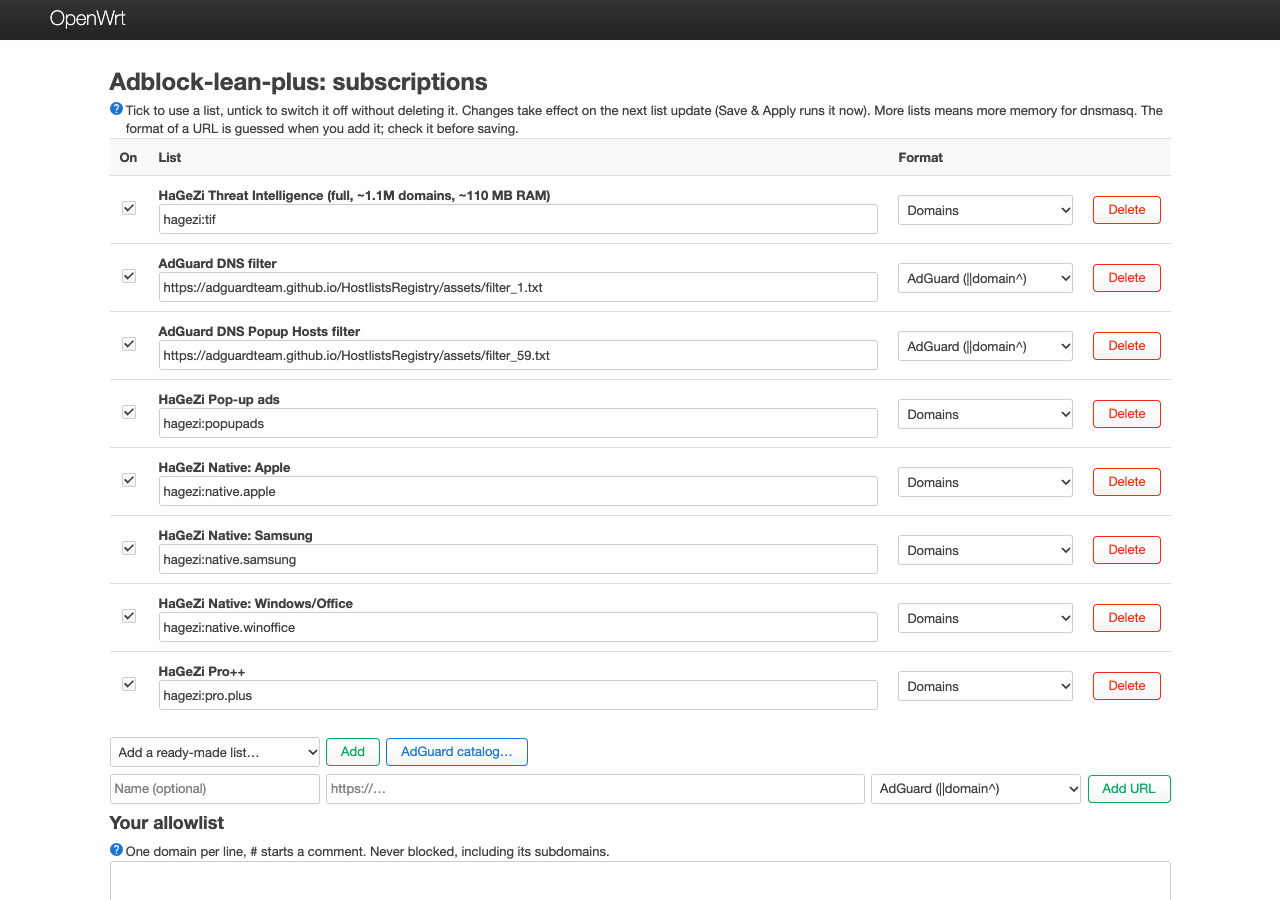
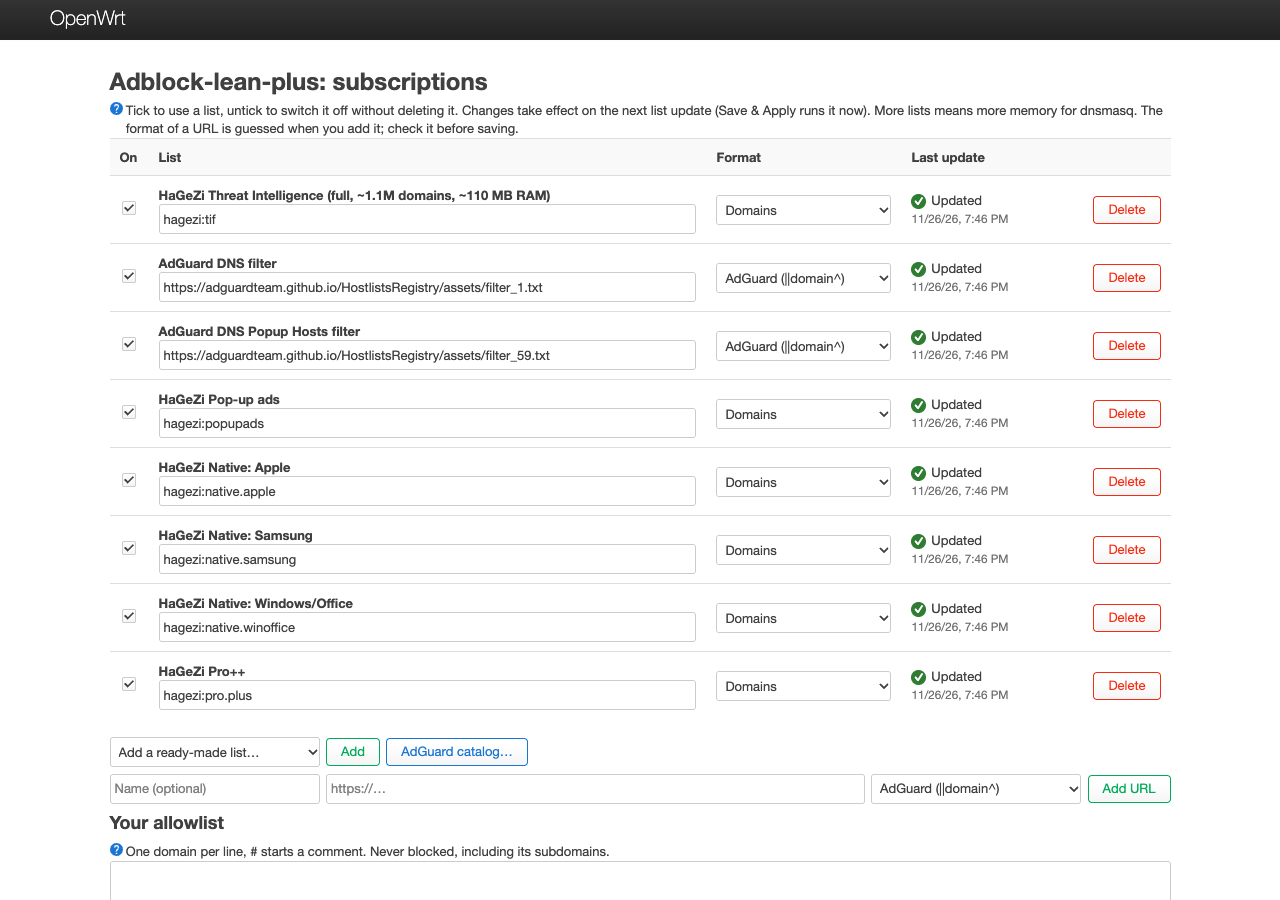
Show which block list failed to download
A list that can not be downloaded is skipped, and nothing but the log said so. The engine now records the
result of every list in /etc/adblock-lean/list-status; the Lists page has a "Last update" column, the
Overview warns about failed lists and updates that installed nothing.

Also fix an upstream bug: failed job IDs were glued together ('1' and '2' named job 12).

diff --git a/luci-app/luci-app-adblock-lean/htdocs/luci-static/resources/view/adblock-lean/overview.js b/luci-app/luci-app-adblock-lean/htdocs/luci-static/resources/view/adblock-lean/overview.js
@@ -7,6 +7,7 @@
 'require poll';
 'require dom';
 'require view.adblock-lean.names as listnames';
+'require view.adblock-lean.liststatus as liststatus';
 
 var callStatus = rpc.declare({ object: 'luci.adblock-lean', method: 'status', expect: { '': {} } });
 var callAction = rpc.declare({ object: 'luci.adblock-lean', method: 'action', params: [ 'name' ], expect: { '': {} } });
@@ -216,27 +217,54 @@ return view.extend({
 			});
 			self.ownNames = own;
 			self.allowSources = allow;
-			var unnamed = ((self.status || {}).lists || []).some(function(l) {
+			var st = self.status || {};
+			var unnamed = (st.lists || []).concat(st.list_status || []).some(function(l) {
 				return /^https?:/.test(l.name) && !own[l.name] && !listnames.name(l.name);
 			});
 			if (unnamed)
 				return callCatalog().then(function(c) { listnames.remember(c); });
 		}).then(function() {
 			var box = document.getElementById('abl-lists');
-			if (box && self.status)
+			if (box && self.status) {
 				dom.content(box, self.renderLists(self.status));
+				dom.content(document.getElementById('abl-alerts'), self.renderAlerts(self.status));
+			}
 		}).catch(function() {
 			// without the names the table still shows the addresses
 		});
 	},
 
+	// the name shown for a list, or null
+	listName: function(source) {
+		if (source.indexOf('/') === 0)
+			return /\/local-allowlist/.test(source) ? _('Your allowlist') : /\/local-blocklist/.test(source) ? _('Your blocklist') : _('Local list');
+		return (this.ownNames && this.ownNames[source]) || listnames.name(source);
+	},
+
+	// problems of the newest update: nothing when all is well
+	renderAlerts: function(st) {
+		var self = this, texts = [];
+		var failed = (st.list_status || []).filter(function(s) { return !s.ok; });
+		if (st.run_at && !st.run_ok)
+			texts.push(_('The list update of %s did not install new lists.').format(new Date(st.run_at * 1000).toLocaleString()) +
+				(st.state === 'active' ? ' ' + _('The previous block set is still in use.') : ''));
+		if (failed.length) {
+			var named = failed.slice(0, 3).map(function(s) {
+				return '%s (%s)'.format(self.listName(s.name) || s.name, liststatus.reason(s.reason));
+			});
+			if (failed.length > named.length)
+				named.push(_('and %d more').format(failed.length - named.length));
+			texts.push(_('Lists that failed to download: %d. %s. Check their addresses on the Lists page.').format(failed.length, named.join(', ')));
+		}
+		// text nodes: list names come from the user and from downloads
+		return E([], texts.map(function(t) {
+			return E('div', { 'class': 'alert-message warning', 'style': 'word-break:break-word' }, [ t ]);
+		}));
+	},
+
 	// every list the same way: its name in bold and its address (or file) below
 	listCell: function(source) {
-		var local = source.indexOf('/') === 0, name;
-		if (local)
-			name = /\/local-allowlist/.test(source) ? _('Your allowlist') : /\/local-blocklist/.test(source) ? _('Your blocklist') : _('Local list');
-		else
-			name = (this.ownNames && this.ownNames[source]) || listnames.name(source);
+		var name = this.listName(source);
 		// text nodes: names and addresses come from files and downloads
 		return E('td', { 'class': 'td', 'style': 'word-break:break-all' }, [
 			name ? E('div', {}, E('strong', {}, document.createTextNode(name))) : '',
@@ -245,7 +273,12 @@ return view.extend({
 	},
 
 	renderLists: function(st) {
-		if (!st.lists || !st.lists.length)
+		var results = liststatus.map(st.list_status), shown = Object.create(null);
+		var lists = st.lists || [];
+		lists.forEach(function(l) { shown[liststatus.key(l.name)] = true; });
+		// failed lists have no figures in the log: they get a row of their own
+		var missing = (st.list_status || []).filter(function(s) { return !s.ok && !shown[liststatus.key(s.name)]; });
+		if (!lists.length && !missing.length)
 			return E('p', { 'class': 'cbi-value-description' }, _('No per-list figures yet. They appear after the next list update.'));
 
 		var rows = [ E('tr', { 'class': 'tr table-titles' }, [
@@ -254,17 +287,29 @@ return view.extend({
 			E('th', { 'class': 'th right' }, _('Download size'))
 		]) ];
 		var self = this;
-		st.lists.forEach(function(l) {
+		lists.forEach(function(l) {
+			var result = results[liststatus.key(l.name)];
+			// the figures are those of the blockset in use; a newer attempt may have failed
+			var entries = !result ? fmtInt(l.lines)
+				: result.ok ? liststatus.badge('ok', fmtInt(l.lines), null, true)
+				: liststatus.badge('fail', fmtInt(l.lines), _('Last attempt failed: %s').format(liststatus.reason(result.reason)), true);
 			rows.push(E('tr', { 'class': 'tr' }, [
 				self.listCell(l.name),
-				E('td', { 'class': 'td right' }, fmtInt(l.lines)),
+				E('td', { 'class': 'td right' }, [ entries ]),
 				E('td', { 'class': 'td right' }, l.size.replace(/\s+/g, ' '))
+			]));
+		});
+		missing.forEach(function(s) {
+			rows.push(E('tr', { 'class': 'tr' }, [
+				self.listCell(s.name),
+				E('td', { 'class': 'td right' }, [ liststatus.badge('fail', _('Not loaded'), liststatus.reason(s.reason)) ]),
+				E('td', { 'class': 'td right' }, '-')
 			]));
 		});
 		// how much the block lists overlap. The total below counts the allow rules too, so:
 		// lists together - removed + allow rules = total. Not shown in allowlist-only mode (block lists are
 		// then dropped almost entirely) nor before it is known which lists are allowlists.
-		var together = st.lists.reduce(function(sum, l) {
+		var together = lists.reduce(function(sum, l) {
 			var allow = /\/local-allowlist/.test(l.name) || (self.allowSources && self.allowSources[listKey(l.name)]);
 			return allow ? sum : sum + (+l.lines || 0);
 		}, 0);
@@ -291,8 +336,8 @@ return view.extend({
 		]));
 		return E([], [
 			E('table', { 'class': 'table' }, rows),
-			E('p', { 'class': 'cbi-value-description' },
-				_('From the list update at %s.').format(new Date(st.lists_at * 1000).toLocaleString()))
+			st.lists_at ? E('p', { 'class': 'cbi-value-description' },
+				_('From the list update at %s.').format(new Date(st.lists_at * 1000).toLocaleString())) : ''
 		]);
 	},
 
@@ -492,6 +537,7 @@ return view.extend({
 				dom.content(document.getElementById('abl-status'), self.renderStatus(st));
 			dom.content(document.getElementById('abl-resources'), self.renderResources(st));
 			dom.content(document.getElementById('abl-lists'), self.renderLists(st));
+			dom.content(document.getElementById('abl-alerts'), self.renderAlerts(st));
 			dom.content(document.getElementById('abl-buttons'), self.renderButtons(st));
 		});
 	},
@@ -504,6 +550,7 @@ return view.extend({
 
 		var view = E([], [
 			E('h2', {}, _('Adblock-lean-plus')),
+			E('div', { 'id': 'abl-alerts' }, [ this.renderAlerts(st) ]),
 			E('div', { 'class': 'cbi-section' }, [
 				E('h3', {}, _('Status')),
 				E('div', { 'id': 'abl-status' }, this.renderStatus(st)),

diff --git a/luci-app/luci-app-adblock-lean/htdocs/luci-static/resources/view/adblock-lean/lists.js b/luci-app/luci-app-adblock-lean/htdocs/luci-static/resources/view/adblock-lean/lists.js
@@ -7,6 +7,7 @@
 'require ui';
 'require dom';
 'require view.adblock-lean.names as listnames';
+'require view.adblock-lean.liststatus as liststatus';
 
 var callGetSubs = rpc.declare({ object: 'luci.adblock-lean', method: 'get_subscriptions', expect: { '': {} } });
 var callSetSubs = rpc.declare({ object: 'luci.adblock-lean', method: 'set_subscriptions', params: [ 'text' ], expect: { '': {} } });
@@ -17,6 +18,13 @@ var callDetect = rpc.declare({ object: 'luci.adblock-lean', method: 'detect_form
 var callCatalog = rpc.declare({ object: 'luci.adblock-lean', method: 'get_catalog', expect: { '': {} } });
 
 var PRESETS = listnames.PRESETS;
+
+// on a narrow screen the status goes under the list address instead of into its own column
+var STYLE = '.abl-status-inline{display:none;margin-top:.35em}' +
+	'@media (max-width:600px){.abl-status-col{display:none!important}.abl-status-inline{display:block}}';
+
+// results of the last download, by list address
+var lastResults = Object.create(null);
 
 // text goes into .value, never through innerHTML
 function textarea(id, text) {
@@ -86,6 +94,14 @@ function showName(tr) {
 	own.style.display = useAuto ? 'none' : '';
 }
 
+function showStatus(tr) {
+	var source = tr.querySelector('.abl-src').value.trim();
+	var enabled = tr.querySelector('.abl-en').checked, entry = lastResults[liststatus.key(source)];
+	Array.prototype.forEach.call(tr.querySelectorAll('.abl-status'), function(box) {
+		dom.content(box, liststatus.cell(enabled, entry));
+	});
+}
+
 // Guess the format from the URL; null = keep what the user picked. 'dnsmasq' = not supported.
 function guessFormat(url) {
 	if (/\/dnsmasq\/|dnsmasq/i.test(url))
@@ -116,19 +132,26 @@ return view.extend({
 		var tr = E('tr', { 'class': 'tr abl-sub' }, [
 			E('td', { 'class': 'td', 'style': 'width:3em;text-align:center' },
 				E('input', { 'type': 'checkbox', 'class': 'abl-en', 'checked': sub.enabled ? '' : null,
-					'title': _('Switched off subscriptions stay in the list but are not downloaded') })),
+					'title': _('Switched off subscriptions stay in the list but are not downloaded'),
+					'change': function(ev) { showStatus(ev.target.closest('tr')); } })),
 			E('td', { 'class': 'td' }, [
 				// a text node: the name may come from the downloaded catalog
 				E('div', { 'class': 'abl-name', 'style': 'font-weight:bold' }, ''),
 				E('input', { 'type': 'text', 'class': 'cbi-input-text abl-title', 'style': 'width:100%;margin-bottom:.25em',
 					'maxlength': 80, 'placeholder': _('Name (optional)'), 'value': sub.title || '' }),
 				E('input', { 'type': 'text', 'class': 'cbi-input-text abl-src', 'style': 'width:100%', 'maxlength': 500, 'value': sub.source,
-					'change': function(ev) { showName(ev.target.closest('tr')); } })
+					'change': function(ev) {
+						var row = ev.target.closest('tr');
+						showName(row);
+						showStatus(row);
+					} }),
+				E('div', { 'class': 'abl-status abl-status-inline' })
 			]),
 			E('td', { 'class': 'td', 'style': 'width:15em' },
 				E('select', { 'class': 'cbi-input-select abl-fmt' }, FORMATS.map(function(f) {
 					return E('option', { 'value': f[0], 'selected': f[0] === sub.format ? '' : null }, f[1]);
 				}))),
+			E('td', { 'class': 'td abl-status abl-status-col', 'style': 'width:14em' }),
 			E('td', { 'class': 'td', 'style': 'width:6em' },
 				E('button', { 'class': 'cbi-button cbi-button-remove', 'click': function(ev) {
 					var row = ev.target.closest('tr');
@@ -136,6 +159,7 @@ return view.extend({
 				} }, _('Delete')))
 		]);
 		showName(tr);
+		showStatus(tr);
 		return tr;
 	},
 
@@ -156,6 +180,7 @@ return view.extend({
 		if (subs.error)
 			return E('div', { 'class': 'alert-message warning' }, document.createTextNode(subs.error));
 
+		lastResults = liststatus.map(subs.list_status);
 		var idx = 0;
 		var presetSel = E('select', { 'class': 'cbi-input-select', 'id': 'abl-preset' }, [ E('option', { 'value': '' }, _('Add a ready-made list…')) ].concat(
 			PRESETS.map(function(g) {
@@ -172,6 +197,7 @@ return view.extend({
 			window.setTimeout(function() { self.loadNames(); }, 0);
 
 		return E([], [
+			E('style', {}, [ STYLE ]),
 			E('h2', {}, _('Adblock-lean-plus: subscriptions')),
 			E('div', { 'class': 'cbi-section' }, [
 				E('p', { 'class': 'cbi-value-description' },
@@ -181,6 +207,7 @@ return view.extend({
 						E('th', { 'class': 'th' }, _('On')),
 						E('th', { 'class': 'th' }, _('List')),
 						E('th', { 'class': 'th' }, _('Format')),
+						E('th', { 'class': 'th abl-status-col' }, _('Last update')),
 						E('th', { 'class': 'th' }, '')
 					])),
 					E('tbody', { 'id': 'abl-subs' }, (subs.subscriptions || []).map(function(s) { return self.subRow(s); }))

diff --git a/luci-app/luci-app-adblock-lean/htdocs/luci-static/resources/view/adblock-lean/liststatus.js b/luci-app/luci-app-adblock-lean/htdocs/luci-static/resources/view/adblock-lean/liststatus.js
@@ -1,0 +1,80 @@
+'use strict';
+// SPDX-License-Identifier: GPL-2.0-only
+// Added in adblock-lean-plus (2026-11): how the result of a list's last download is shown, shared by the
+// Overview and Subscriptions pages.
+'require baseclass';
+
+// colour and sign of each state
+var LOOK = {
+	ok: [ '#2e7d32', '✓' ],
+	fail: [ '#c62828', '!' ],
+	off: [ '#8a8a8a', '–' ],
+	unknown: [ '#8a8a8a', '?' ]
+};
+
+// a list address as a key: short ids are case-insensitive
+function key(source) {
+	return /^https?:/i.test(source) ? source : String(source).toLowerCase();
+}
+
+// the router's reason code in words
+function reason(code) {
+	var http = /^http_([0-9]+)$/.exec(code);
+	if (http)
+		return _('HTTP error %d').format(+http[1]);
+	switch (code) {
+		case 'net': return _('server not reachable');
+		case 'content': return _('not a block list');
+		case 'few': return _('too few usable entries');
+		case 'size': return _('larger than the size limit');
+		case 'timeout': return _('timed out');
+	}
+	return _('processing failed');
+}
+
+function when(ts) {
+	return new Date(ts * 1000).toLocaleString(undefined, { dateStyle: 'short', timeStyle: 'short' });
+}
+
+// a round sign, a text and optional further lines (a text or an array of texts); the texts become text nodes. oneLine keeps a short text
+// (a figure) next to its sign, longer texts may wrap on narrow screens.
+function badge(kind, text, detail, oneLine) {
+	var look = LOOK[kind];
+	return E('div', {}, [
+		E('div', { 'style': oneLine ? 'white-space:nowrap' : null }, [
+			E('span', { 'aria-hidden': 'true', 'style': 'display:inline-block;width:1.35em;height:1.35em;line-height:1.35em;' +
+				'border-radius:50%;margin-right:.45em;text-align:center;font-size:85%;font-weight:bold;color:#fff;background:' + look[0] }, look[1]),
+			E('span', {}, [ text ])
+		]),
+		E('div', { 'style': 'font-size:90%;opacity:.75' }, [].concat(detail || []).map(function(line) {
+			return E('div', {}, [ line ]);
+		}))
+	]);
+}
+
+return baseclass.extend({
+	key: key,
+	reason: reason,
+	badge: badge,
+
+	// the router's list_status array as a map by list address
+	map: function(list) {
+		var map = Object.create(null);
+		(list || []).forEach(function(s) { map[key(s.name)] = s; });
+		return map;
+	},
+
+	// the status of one subscription: entry is its record in the map, if any
+	cell: function(enabled, entry) {
+		if (!enabled)
+			return badge('off', _('Switched off'));
+		if (!entry)
+			return badge('unknown', _('Not updated yet'));
+		if (entry.ok)
+			return badge('ok', _('Updated'), when(entry.at));
+		return badge('fail', _('Failed: %s').format(reason(entry.reason)), [
+			_('tried: %s').format(when(entry.at)),
+			entry.ok_at ? _('last good: %s').format(when(entry.ok_at)) : _('never loaded')
+		]);
+	}
+});

diff --git a/README.md b/README.md
@@ -20,7 +20,7 @@ missing pieces together:
 |---|---|
 | 📋 *AdGuard DNS filter* and *Popup Hosts* come in AdGuard syntax only; with adblock-lean 0.8.1 we had to convert them by hand into a file that never updated | reads AdGuard-syntax lists directly, exceptions included |
 | ⏱ A window without filtering after every reboot | optional early boot filter: the saved blocklist is loaded before dnsmasq starts |
-| 🖱 The existing LuCI app was written for adblock-lean 0.8.1 | reworked pages: subscriptions you can switch off, AdGuard's list catalog, status, router resources, backup |
+| 🖱 The existing LuCI app was written for adblock-lean 0.8.1 | reworked pages: subscriptions you can switch off, AdGuard's list catalog, status, which list failed to download, router resources, backup |
 | 🔐 Encrypted DNS set up by hand | the installer adds three DoH proxies, switches dnsmasq to them and rolls back if DNS stops working |
 | 📦 Several projects to install and wire together | one installer that looks at your router, asks, shows the plan and then installs |
 | ⬆ `sysupgrade` forgets the setup | scripts and settings are kept while "start at boot" is on (untested on a real upgrade, see [Requirements](#-requirements)) |
@@ -88,7 +88,8 @@ CPU was no argument against AdGuard Home in our runs (13.9 s, measured at anothe
 | **Subscriptions** | **AdGuard Home's list catalog** |
 | [![Subscriptions](docs/screenshots/subscriptions.png)](docs/screenshots/subscriptions.png) | [![Catalog](docs/screenshots/adguard-catalog.png)](docs/screenshots/adguard-catalog.png) |
 
-Rendered from this repository's view files with data captured from a router running it (LuCI default theme).
+Rendered from this repository's view files with data captured from a router running it (LuCI default theme); the
+"Last update" column is filled in for the captured update.
 
 ## ✅ Requirements
 
@@ -309,6 +310,21 @@ To change them: LuCI → Services → HTTPS DNS Proxy (`--doh-gui`), or edit `/e
 - Rules that dnsmasq can not express are skipped and counted in the log: wildcards inside a name, regexes,
   `$client`/`$denyallow` and similar, whole-TLD rules (`||xyz^`). `.example.com^` blocks `example.com` too.
 - HaGeZi lists are fastest as adblock-lean short ids (`hagezi:pro.plus`, plain domains): no conversion needed.
+
+### List status
+
+A list that can not be downloaded is skipped and the update goes on without it, so the pages say which one it was:
+
+- **Lists** page, column **Last update**: updated, failed (with the reason and when it last worked), switched off, or
+  not updated yet.
+- **Overview**: a warning on top when a list failed or when an update did not install new lists; a sign on every row of
+  the list table.
+
+Reasons: HTTP error, server not reachable, timed out, not a block list, too few usable entries (also a web page served
+as an AdGuard or hosts list), larger than the size limit, processing failed. A list that moved and is no longer served
+at the old address shows up this way; an abandoned list that can still be downloaded does not. The results are kept in
+`/etc/adblock-lean/list-status` (two or three small writes per update), so they survive a reboot. They appear after the
+first update with this version.
 
 ### Backup and import
 

diff --git a/adblock-lean/FORK-NOTES.md b/adblock-lean/FORK-NOTES.md
@@ -18,6 +18,18 @@ Base: upstream `lynxthecat/adblock-lean`, branch `next-version`, commit `1c1346e
 | `ABL_UPD_CHANNEL=local-fork`: upstream update check off, `update` refuses to run (it would replace the fork) | — | `adblock-lean` |
 | Tests: `tests/test-list-conv.sh` (run with busybox: `sh tests/test-list-conv.sh`) | — | `tests/` |
 
+## List status for the web interface
+
+After the parts of an update are processed, the result of every list is written to `/etc/adblock-lean/list-status`
+(`list <ok|fail> <last attempt> <last good> <entries> <reason> <list>`; reasons: `http_<code>`, `net`, `content`, `few`,
+`size`, `timeout`, `error`), and at the end of `start` a `run <time> <0|1>` line says whether newly generated lists got installed.
+Entries of lists not processed for 30 days are dropped. On flash because the logs are in RAM and are rotated on every
+start. A write that fails never fails the update. Files: `abl-process.sh` (`save_list_status`, `save_run_status`, the
+failure reasons in `process_set_part` and `part_done_cb`), `adblock-lean` (`do_start`).
+
+Also fixed there (upstream bug): `processing_done_cb` glued the lists of failed job IDs together without a separator,
+so '1' and '2' named job 12, whose good list was then dropped.
+
 ## Installer commands in the sysupgrade keep-file
 
 `adblock-lean-plus-update`, `adblock-lean-plus-uninstall` and the installer's DoH marker are listed in

diff --git a/luci-app/FORK-NOTES.md b/luci-app/FORK-NOTES.md
@@ -41,6 +41,13 @@ Works with the adblock-lean fork in `../adblock-lean` (upstream `next-version` l
 - **Presets** grouped: AdGuard, HaGeZi (short ids = plain-domain lists, no conversion), Security, All-purpose; DNS-suitable picks from yokoffing/filterlists (HaGeZi High-Entropy NRDs 7d, Dandelion Sprout's Anti-Malware in AdGuard Home format, cbuijs HaGeZi combo mini). Browser-only lists (cosmetic, URL parameters, paths) are not offered: measured on the router, e.g. Privacy Essentials 669 lines → 70 usable domains, Actually Legitimate URL Shortener 5841 → 0.
 - **Format guess** when a URL is added: `adblock`/AdGuard → AdGuard syntax, `wildcard`/`domains` → plain domains, `hosts` → hosts; dnsmasq-format URLs are refused with an explanation (adblock-lean builds the dnsmasq format itself).
 
+## List status
+
+`liststatus.js` (shared) shows what the engine recorded in `/etc/adblock-lean/list-status`: `status` and
+`get_subscriptions` return `list_status` for the lists of the config, `status` also `run_at`/`run_ok`. Lists page:
+column "Last update" (under the address on screens narrower than 600 px). Overview: warnings on top, a sign per row of
+the list table, an extra row for a list that was not loaded.
+
 ## Install by hand (stand / router)
 
 Use `../install.sh --gui root@<router>`, or by hand:
